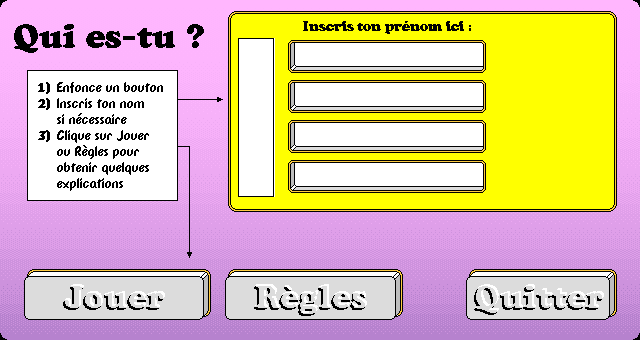
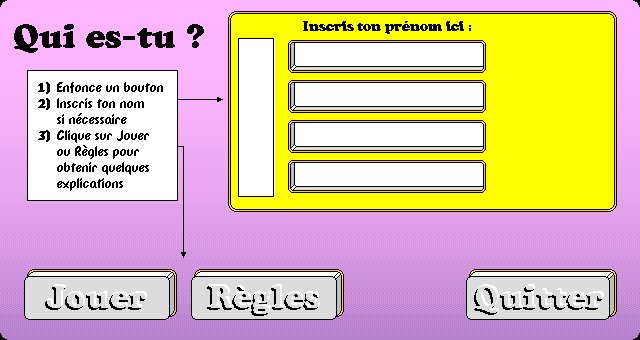
Add new settings screen and impl. zoom

Changed region(s): [[0.0625, 0.7941, 0.6562, 0.9412], [0.2812, 0.7353, 0.3125, 0.7647]]

diff --git a/src/bm_play.c b/src/bm_play.c
@@ -84,7 +84,8 @@ typedef enum
 	PHASE_FINI8,
 	PHASE_OPER,
 	PHASE_DEPLACE,
-	PHASE_ATTENTE
+	PHASE_ATTENTE,
+        PHASE_REGLAGE2
 }
 Phase;
 
@@ -169,7 +170,14 @@ typedef enum
 	ACTION_COULEUR3,
 	ACTION_COULEUR4,
 	ACTION_IDENT,
-	ACTION_QUITTE
+	ACTION_QUITTE,
+        ACTION_REGLAGE2,
+        ACTION_SCREEN_1,
+        ACTION_SCREEN_2,
+        ACTION_SCREEN_FULL,
+        ACTION_LANG_EN,
+        ACTION_LANG_FR,
+        ACTION_LANG_DE
 }
 PhAction;
 
@@ -213,7 +221,9 @@ typedef struct
 	short	modetelecom;					/* mode de la tlcommande (0..1) */
 	short	noisevolume;					/* volume bruitages */
 	short	musicvolume;					/* volume musique */
-	short	reserve2[93];					/* rserve */
+	short   language; /* language (en, fr, de) */
+        short   screen; /* zoom (normal, double, fullscreen) */
+	short	reserve2[91];					/* rserve */
 }
 Joueur;
 
@@ -391,6 +401,34 @@ static short tabpalette0[] =
 
 
 
+
+void
+ChangeLanguage(short language)
+{
+
+}
+
+void
+ChangeScreen(short zoom)
+{
+  ++zoom;
+  SDL_bool fullscreen = zoom == 3;
+
+  SDL_SetWindowFullscreen(g_window, fullscreen ? SDL_WINDOW_FULLSCREEN_DESKTOP : 0);
+  SDL_SetWindowBordered (g_window, fullscreen ? SDL_FALSE : SDL_TRUE);
+
+  if (!fullscreen)
+    SDL_SetWindowSize (g_window, LXIMAGE () * zoom, LYIMAGE () * zoom);
+
+  SDL_RenderClear (g_renderer);
+  SDL_RenderPresent (g_renderer);
+
+  int displayIndex = SDL_GetWindowDisplayIndex (g_window);
+  SDL_SetWindowPosition (
+    g_window, SDL_WINDOWPOS_CENTERED_DISPLAY (displayIndex),
+    SDL_WINDOWPOS_CENTERED_DISPLAY (displayIndex));
+  SDL_Delay (100);
+}
 
 
 
@@ -663,10 +701,13 @@ short JoueurRead (void)
 	if ( err )
 	{
 		fj.noisevolume = 10-3;
-		fj.musicvolume = 10-3;
+		fj.musicvolume = 10-6;
 	}
 
 	   g_modetelecom = fj.modetelecom;
+
+        ChangeLanguage(fj.language);
+        ChangeScreen(fj.screen);
 
 	PlayNoiseVolume(fj.noisevolume);
 	PlayMusicVolume(fj.musicvolume);
@@ -743,6 +784,7 @@ short ConvPhaseToNumImage (Phase ph)
 		case PHASE_AIDE11:      return 50;
 		case PHASE_AIDE12:      return 51;
 		case PHASE_AIDE13:      return 52;
+		case PHASE_REGLAGE2:    return 53;
 	}
 	return -1;
 }
@@ -1238,6 +1280,54 @@ void DrawTelecom (void)
 	{
 		if ( fj.modetelecom == i )  DrawRadioButton(pos, 1);
 		else                        DrawRadioButton(pos, 0);
+		pos.y += 32;
+	}
+}
+
+/* ------------ */
+/* DrawLanguage */
+/* ------------ */
+
+/*
+	Draw the language selector
+ */
+
+void DrawLanguage (void)
+{
+	short		i;
+	Pt			pos;
+
+	pos.x = 31;
+	pos.y = LYIMAGE()-292-1;
+
+	for ( i=0 ; i<3 ; i++ )
+	{
+		if ( fj.language == i )  DrawRadioButton(pos, 1);
+		else                     DrawRadioButton(pos, 0);
+		pos.y += 32;
+	}
+}
+
+/* ---------- */
+/* DrawScreen */
+/* ---------- */
+
+/*
+	Draw the screen settings
+ */
+
+void DrawScreen (void)
+{
+	short		i;
+	Pt			pos;
+
+	pos.x = 272;
+	pos.y = LYIMAGE()-292-1;
+
+	for ( i=0 ; i<3 ; i++ )
+	{
+		if ( fj.screen == i )  DrawRadioButton(pos, 1);
+		else                     DrawRadioButton(pos, 0);
 		pos.y += 32;
 	}
 }
@@ -2539,8 +2629,9 @@ short ChangePhase (Phase newphase)
 			break;
 
 		case PHASE_REGLAGE:
+		case PHASE_REGLAGE2:
 			BlackScreen();
-			JoueurWrite();				/* crit le fichier des joueurs */
+			JoueurWrite();				/* Ecrit le fichier des joueurs */
 			break;
 
 		case PHASE_PARAM:
@@ -2619,8 +2710,7 @@ short ChangePhase (Phase newphase)
 	switch ( phase )
 	{
 		case PHASE_GENERIC:
-			PlayNoiseVolume(10-3);
-			PlayMusicVolume(10-6);
+			JoueurRead();				/* lit le fichier des joueurs sur disque */
 			MusicStart(0);
 			musique = 1;
 			lastaccord = -1;
@@ -2657,6 +2747,11 @@ short ChangePhase (Phase newphase)
 			DrawBruitage();				/* affiche le mode de bruitages */
 			DrawTelecom();				/* affiche le mode de tlcommande */
 			MusicStart(3);
+			break;
+
+		case PHASE_REGLAGE2:
+                        DrawLanguage();
+                        DrawScreen();
 			break;
 
 		case PHASE_PARAM:
@@ -2852,9 +2947,10 @@ static short timage31[] =				/* identification */
 	230,259,250,34,		KEYF2,		ACTION_JOUEUR1,
 	230,219,250,34,		KEYF3,		ACTION_JOUEUR2,
 	230,179,250,34,		KEYF4,		ACTION_JOUEUR3,
-	20,73,195,57,		KEYRETURN,	ACTION_DEBUT,
-	222,73,183,57,		'H',		ACTION_AIDE,
-	461,73,160,57,		KEYUNDO,	ACTION_QUITTE,
+	24,340-269,153,51,		KEYRETURN,	ACTION_DEBUT,
+	191,340-269,153,51,		'H',		ACTION_AIDE,
+	466,340-269,151,51,		KEYUNDO,	ACTION_QUITTE,
+        355,90,LXICO,LYICO,     0,              ACTION_REGLAGE2,
 	0
 };
 
@@ -2880,7 +2976,7 @@ static short timage34[] =				/* aide 2.3 */
 	0
 };
 
-static short timage37[] =				/* rglages */
+static short timage37[] =				/* réglages 1 */
 {
 	31,292,160,32,		'S',		ACTION_VITESSE0,
 	31,260,160,32,		'N',		ACTION_VITESSE1,
@@ -2893,8 +2989,9 @@ static short timage37[] =				/* rglages */
 	97,99,21,21,		0,			ACTION_MUSICVOLM,
 	272,172,270,32,		0,			ACTION_TELECOM0,
 	272,140,270,32,		0,			ACTION_TELECOM1,
-	40,72,260,56,		KEYRETURN,	ACTION_DEBUT,
-	311,72,384,56,		KEYDEF,		ACTION_IDENT,
+	43,340-281,166,51,		KEYRETURN,	ACTION_DEBUT,
+	225,340-281,279,51,		KEYDEF,		ACTION_IDENT,
+        520,340-281,73,51,  0,  ACTION_REGLAGE2,
 	0
 };
 
@@ -3003,6 +3100,20 @@ static short timage52[] =				/* aide 1.3 */
 	0
 };
 
+static short timage53[] =				/* réglages 2 */
+{
+	31,340-49,160,29,		'E',		ACTION_LANG_EN,
+	31,340-81,160,29,		'F',		ACTION_LANG_FR,
+	31,340-113,160,29,		'D',		ACTION_LANG_DE,
+	272,340-49,210,29,		0,		ACTION_SCREEN_1,
+	272,340-81,210,29,		0,		ACTION_SCREEN_2,
+	272,340-113,210,29,		0,		ACTION_SCREEN_FULL,
+        43,340-281,73,51,  0,  ACTION_REGLAGE,
+	132,340-281,166,51,		KEYRETURN,	ACTION_DEBUT,
+	314,340-281,279,51,		KEYDEF,		ACTION_IDENT,
+	0
+};
+
 
 /* --------- */
 /* GetTimage */
@@ -3052,6 +3163,7 @@ short* GetTimage (void)
 		case 50:  return timage50;
 		case 51:  return timage51;
 		case 52:  return timage52;
+                case 53:  return timage53;
 	}
 	return 0;
 }
@@ -3204,9 +3316,10 @@ static short tanim30[] =				/* opration */
 
 static short tanim31[] =				/* identification */
 {
-	ACTION_DEBUT,		79,136,		DELNORM,4,	2,1,3,1,
-	ACTION_AIDE,		281,139,	DELNORM,8,	105,106,106,107,107,104,104,105,
+	ACTION_DEBUT,		62,136,		DELNORM,4,	2,1,3,1,
+	ACTION_AIDE,		236,139,	DELNORM,8,	105,106,106,107,107,104,104,105,
 	ACTION_QUITTE,		503,138,	DELNORM,4,	50,33,50,36,
+        ACTION_REGLAGE2,        355,90,         DELNORM,2,      128+104,256+76,
 	-1
 };
 
@@ -3216,7 +3329,7 @@ static short tanim33[] =				/* fini niveau */
 	-1
 };
 
-static short tanim37[] =				/* rglages */
+static short tanim37[] =				/* réglages */
 {
 	ACTION_VITESSE0,	158,298,	3,12,		2,2,2,1,1,1,3,3,3,1,1,1,
 	ACTION_VITESSE1,	158,298,	2,8,		2,2,1,1,3,3,1,1,
@@ -3233,6 +3346,14 @@ static short tanim37[] =				/* rglages */
 	ACTION_MUSICVOLP,	140,141,	2,4,		77,77,78,78,
 	ACTION_NOISEVOLM,	140,147,	2,4,		93,93,94,94,
 	ACTION_MUSICVOLM,	140,147,	2,4,		93,93,94,94,
+	-1
+};
+
+static short tanim53[] =				/* réglages 2 */
+{
+	ACTION_SCREEN_1,	480,298,	DELNORM,2,	256+128+93,256+128+94,
+	ACTION_SCREEN_2,	480,298,	DELNORM,2,	256+128+93,256+128+94,
+	ACTION_SCREEN_FULL,	480,298,	DELNORM,2,	256+128+93,256+128+94,
 	-1
 };
 
@@ -3268,6 +3389,7 @@ short* AnimGetTable (void)
 		case 31:  return tanim31;
 		case 33:  return tanim33;
 		case 37:  return tanim37;
+                case 53:  return tanim53;
 	}
 	return 0;
 }
@@ -3967,6 +4089,12 @@ short ExecuteAction (char event, Pt pos)
 		return 0;
 	}
 
+	if ( action == ACTION_REGLAGE2 )
+	{
+		ChangePhase(PHASE_REGLAGE2);
+		return 0;
+	}
+
 	if ( action == ACTION_DEBUT )
 	{
 		if ( fj.nom[fj.joueur][0] != 0 )		/* nom du joueur existe ? */
@@ -4314,6 +4442,22 @@ short ExecuteAction (char event, Pt pos)
 		DrawTelecom();
 		return 0;
 	}
+
+	if (action >= ACTION_LANG_EN && action <= ACTION_LANG_DE)
+        {
+          fj.language = action - ACTION_LANG_EN;
+          DrawLanguage();
+          ChangeLanguage(fj.language);
+          return 0;
+        }
+
+        if (action >= ACTION_SCREEN_1 && action <= ACTION_SCREEN_FULL)
+        {
+          fj.screen = action - ACTION_SCREEN_1;
+          DrawScreen();
+          ChangeScreen(fj.screen);
+          return 0;
+        }
 
 	if ( action >= ACTION_COULEUR0 &&
 		 action <= ACTION_COULEUR4 )
